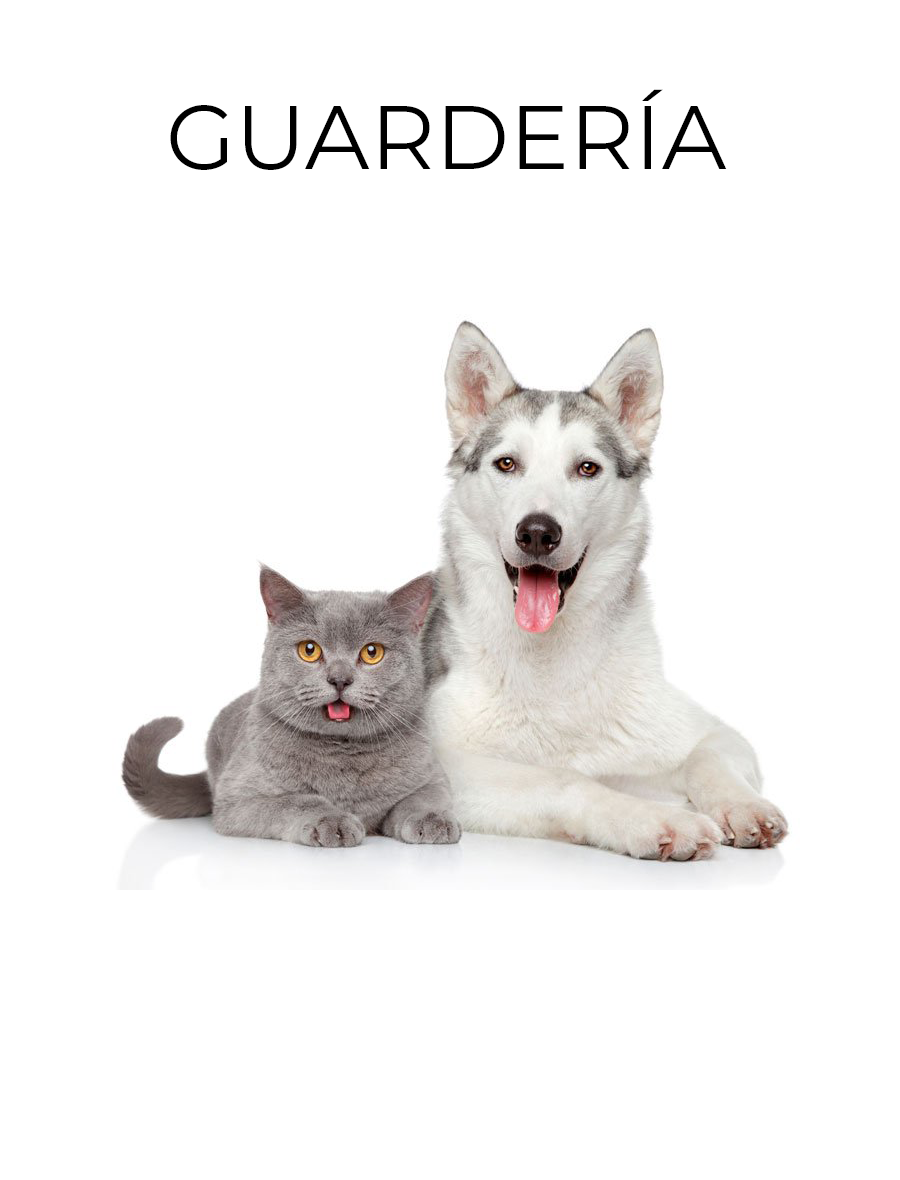
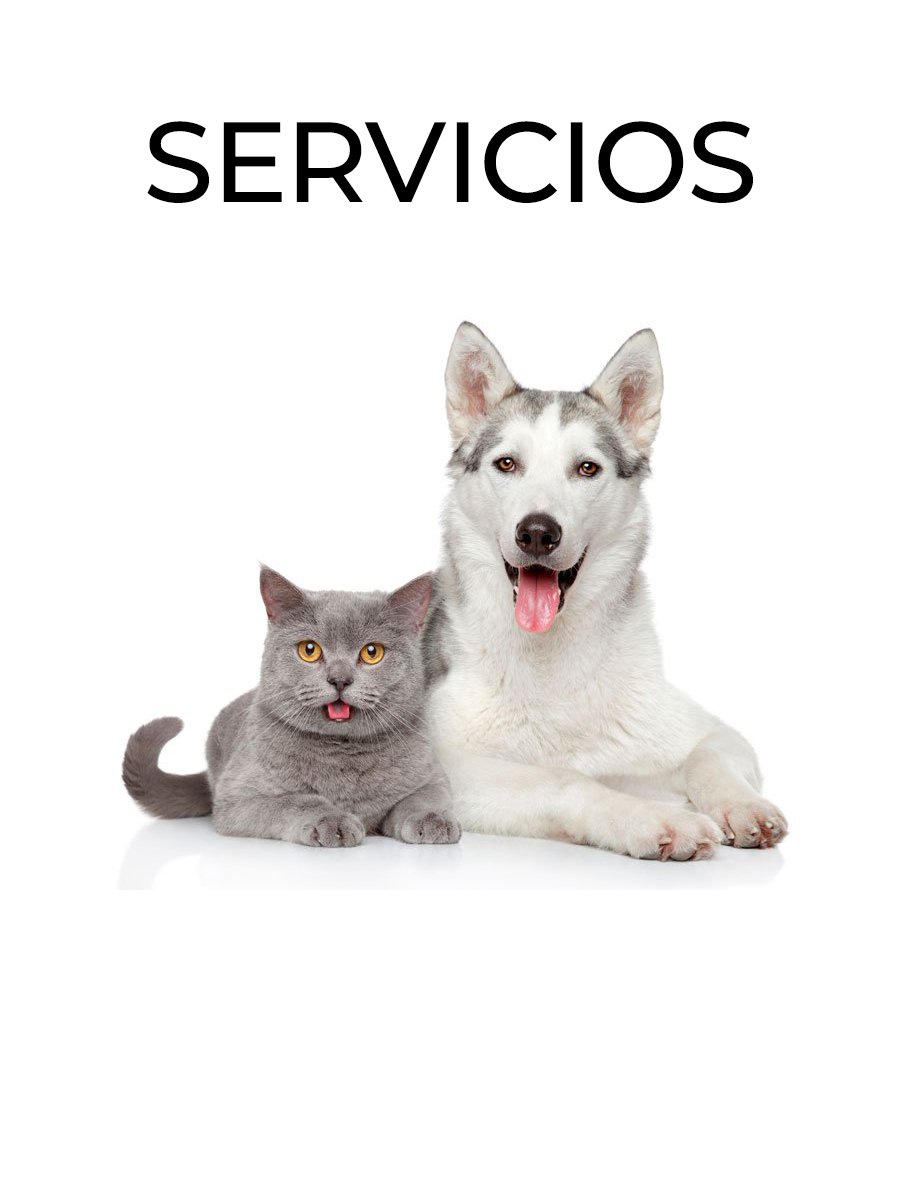
Reparación
Se agrego una pag en reparación

Changed region(s): [[0.1556, 0.061, 0.84, 0.1831]]

diff --git a/guarderia.html b/guarderia.html
@@ -39,7 +39,7 @@
                 los esterilizamos para evitar
                 la sobrepoblación y el sufrimiento inecesario, los desparasitamos para que puedan aprovechar los
                 nutrientes y crecer fuertes y saludables.</P>
-            <a class="boton" href="#">Saber más</a>
+            <a class="boton" href="./reparacion.html">Saber más</a>
         </div>
     </section>
     <!-- <section class="contenedor counter"> -->
@@ -112,7 +112,7 @@
                 <div class="foto">
                     <img src="./images/bebe.jpg" alt="">
                 </div>
-                <a class="boton" href="#">Patrocinar</a>
+                <a class="boton" href="./reparacion.html">Patrocinar</a>
             </div>
             <div class="tarjeta">
                 <div class="texto_tarjeta">
@@ -139,7 +139,7 @@
                 <div class="foto">
                     <img src="./images/pupi.jpg" alt="">
                 </div>
-                <a class="boton" href="#">Patrocinar</a>
+                <a class="boton" href="./reparacion.html">Patrocinar</a>
             </div>
             <div class="tarjeta">
                 <div class="texto_tarjeta">
@@ -166,7 +166,7 @@
                 <div class="foto">
                     <img src="./images/85008169_10220871179520240_6748266234816495616_n.jpg" alt="">
                 </div>
-                <a class="boton" href="#">Patrocinar</a>
+                <a class="boton" href="./reparacion.html">Patrocinar</a>
             </div>
         </div>
     </section>

diff --git a/reparacion.html b/reparacion.html
@@ -1,0 +1,46 @@
+<html lang="en">
+
+<head>
+    <meta charset="UTF-8">
+    <meta name="viewport" content="width=device-width, initial-scale=1.0">
+    <link rel="stylesheet" href="./css/all.css">
+    <link rel="stylesheet" href="./css/estilos.css">
+    <link rel="stylesheet" href="./css/normalize.css">
+    <link
+        href="https://fonts.googleapis.com/css2?family=Montserrat:ital,wght@0,400;0,500;0,700;1,400;1,500;1,700&display=swap"
+        rel="stylesheet">
+    <title>Página en reparación</title>
+</head>
+
+<body>
+    <header class="site-header">
+
+        <nav class="minavbar">
+            <img src="./images/logo_.png" class="logo">
+
+            <a href="./index.html" class="menu">Inicio</a>
+            <a href="./servicios.html" class="menu">Servicios</a>
+            <a href="./guarderia.html" class="menu">Guardería</a>
+            <a href="./index.html#contacto" class="menu">Contacto</a>
+        </nav>
+        <div>
+            <img src="./images/construccion.jpg" class="img1">
+        </div>
+    </header>
+    <div class="titulo_principal">
+        <h1>Próximamente</h1>
+    </div>
+    
+    <footer>
+        <div>
+            <nav>
+                <a href="./index.html">Inicio</a>
+                <a href="./servicios.html">Servicios</a>
+                <a href="./guarderia.html">Guardería</a>
+                <a href="./index.html#contacto">Contacto</a>
+            </nav>
+        </div>
+    </footer>
+</body>
+
+</html>

diff --git a/index.html b/index.html
@@ -49,8 +49,8 @@
 <br>
 
 <div align="center">
-	<a href="#"><img src="./images/img01.png" class="imgIn"></a>
-	<a href="#"><img src="./images/img02.png" class="imgIn"></a>
+	<a href="./servicios.html"><img src="./images/img01.png" class="imgIn"></a>
+	<a href="./guarderia.html"><img src="./images/img02.png" class="imgIn"></a>
 </div>
 
 <br>
